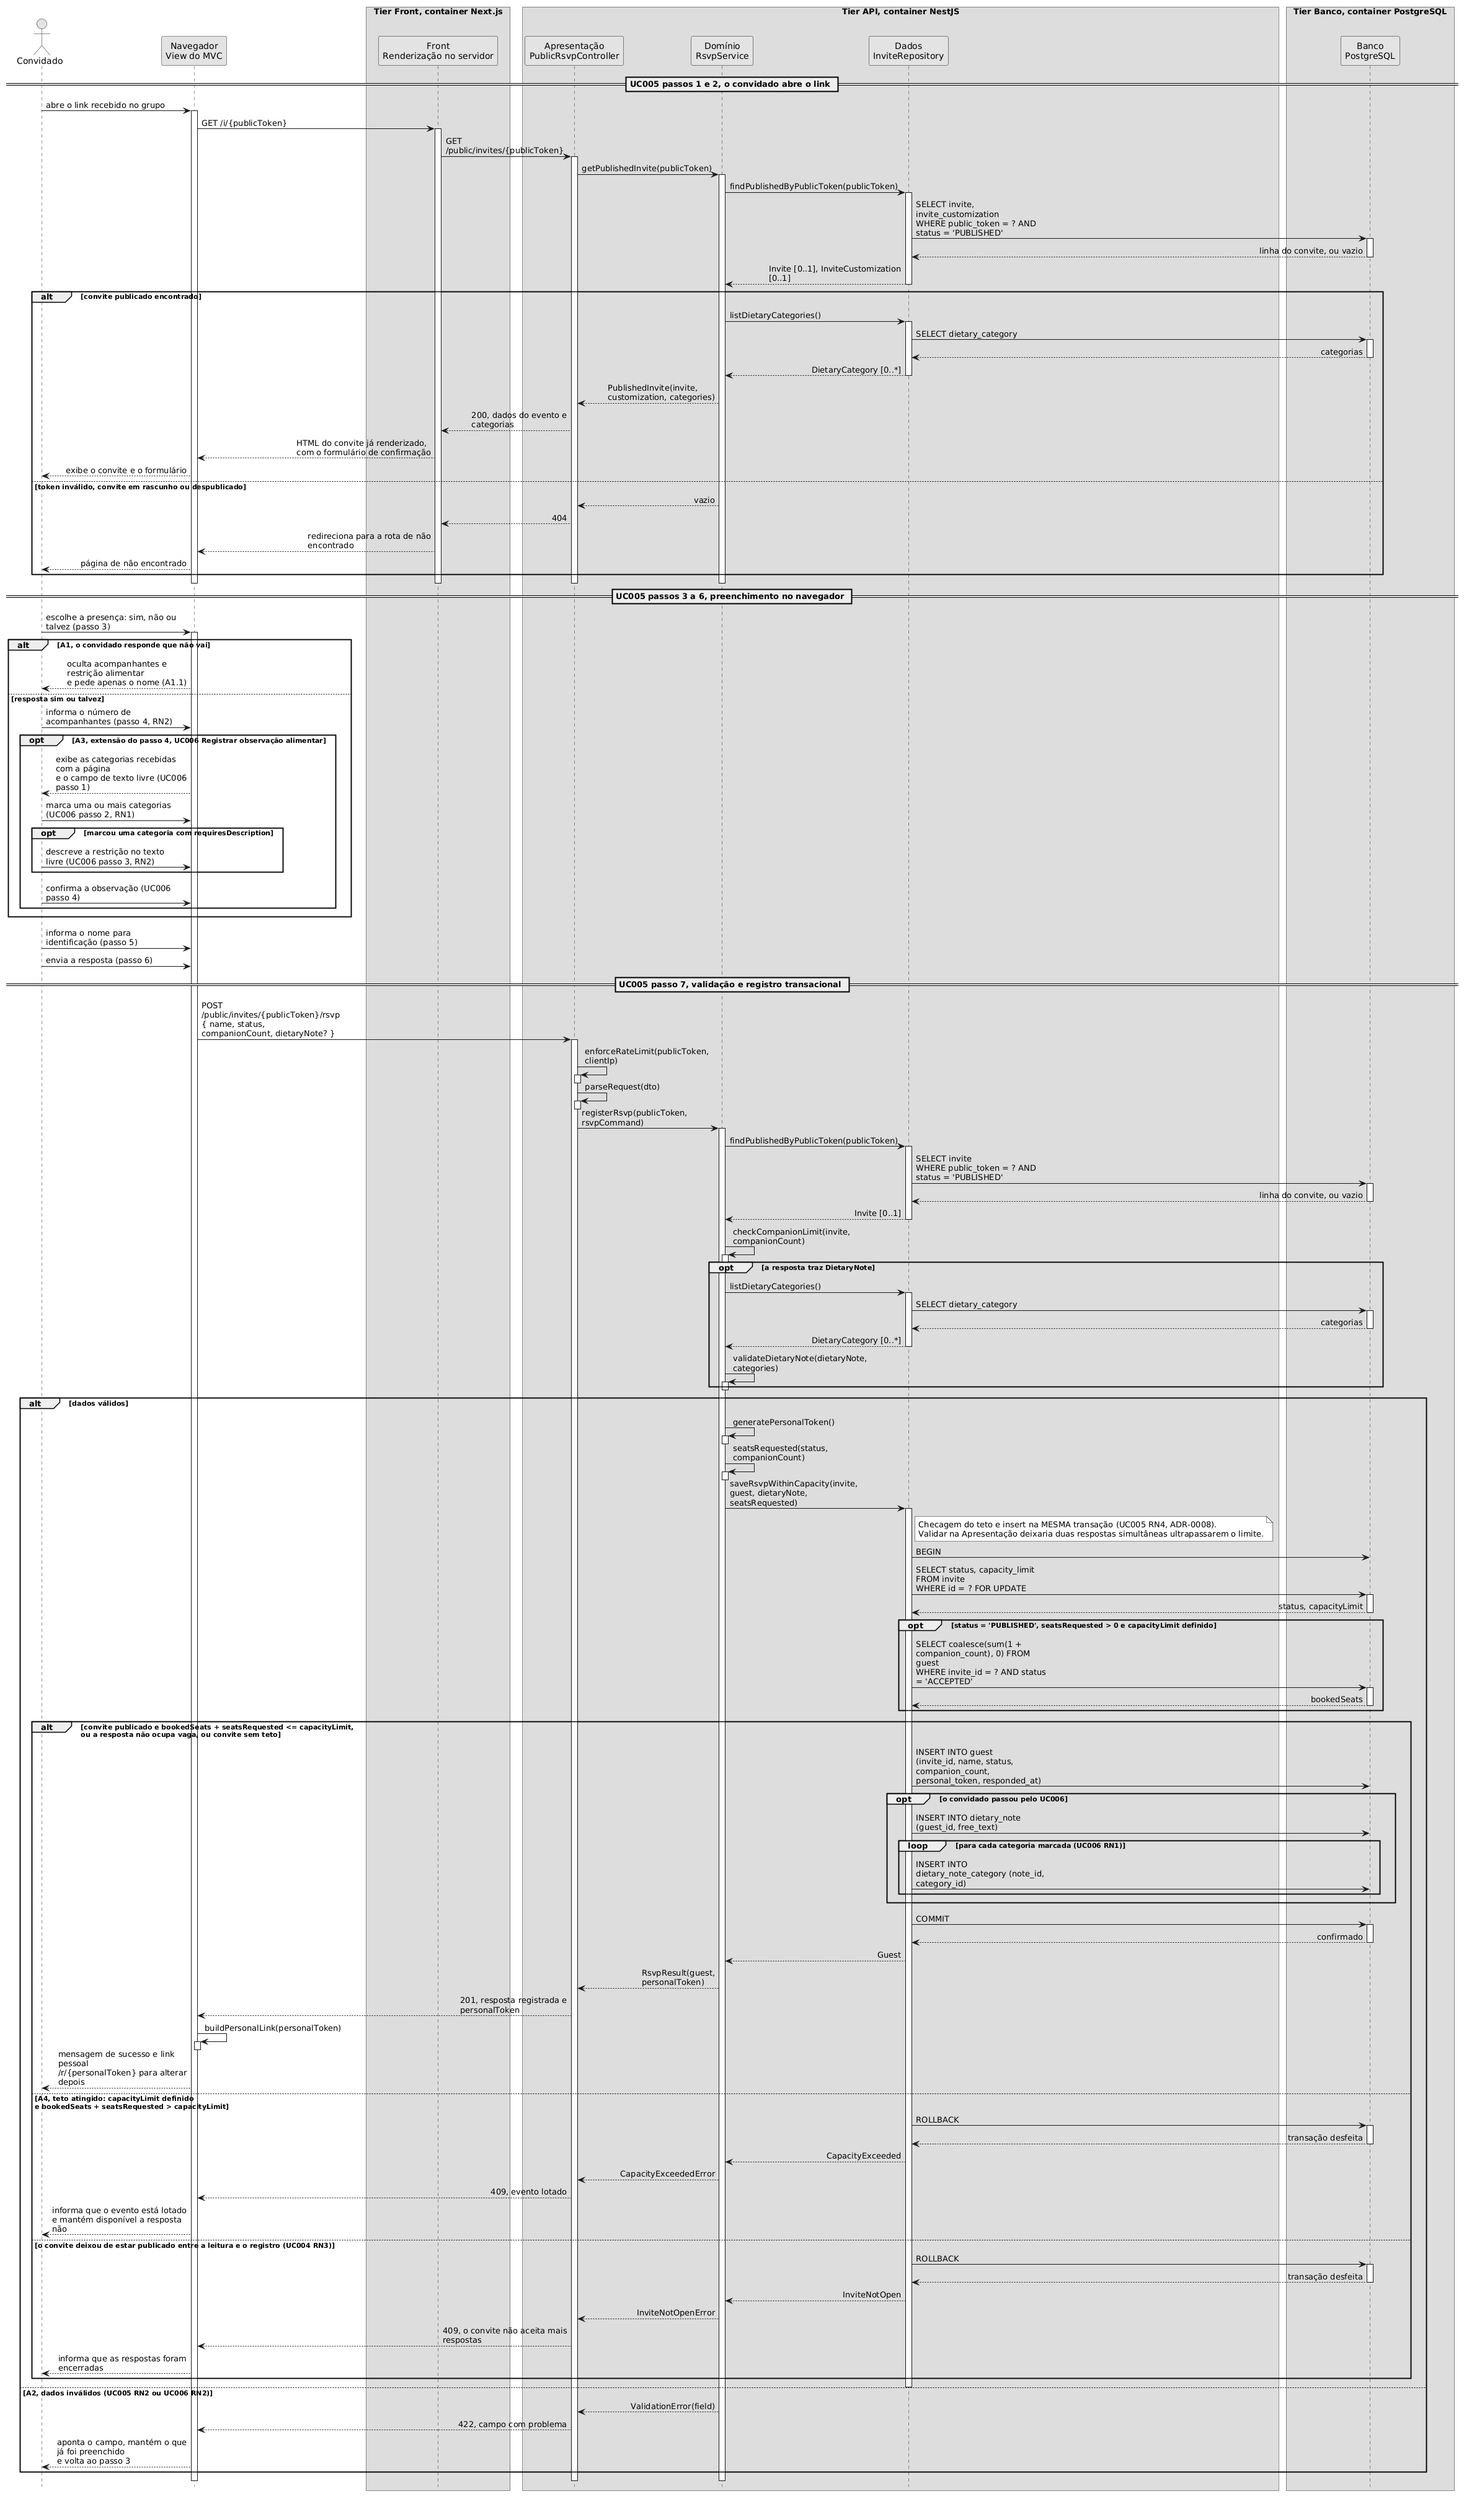
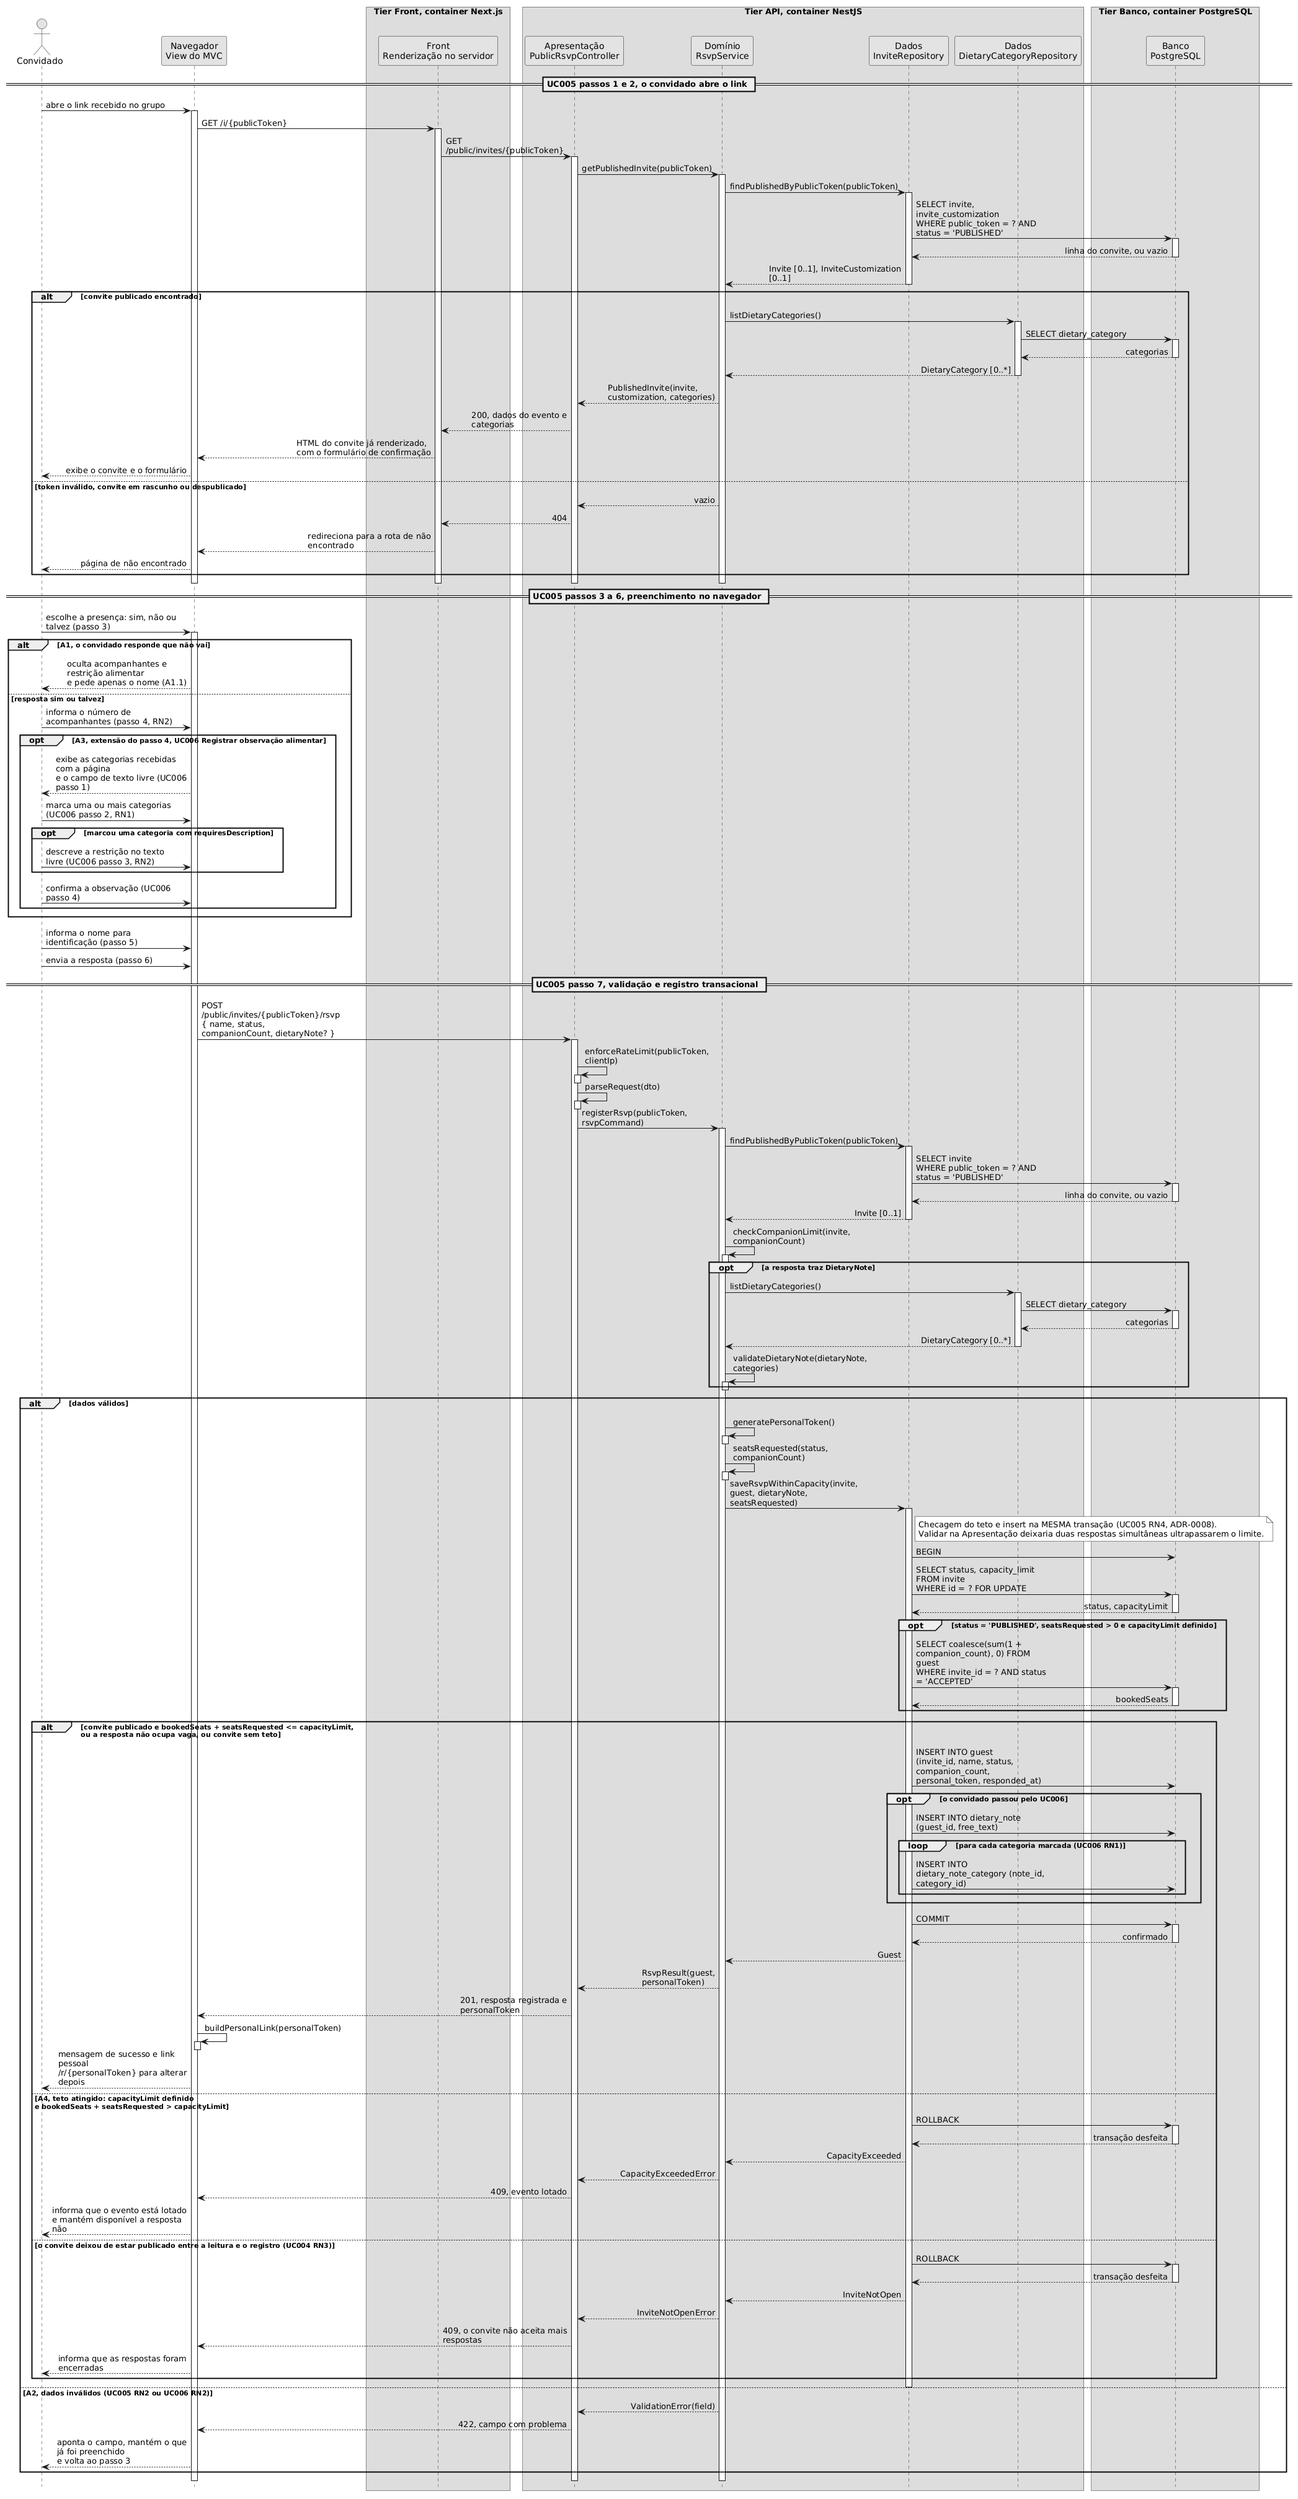
docs: separa DietaryCategoryRepository nos diagramas de sequência e alinha rótulo dos tiers

diff --git a/docs/Sprints/Sprint-2/Diagrama-de-Componentes.md b/docs/Sprints/Sprint-2/Diagrama-de-Componentes.md
@@ -346,7 +346,7 @@ O desenho preliminar saiu das tasks #64 a #67 e foi mexido em oito pontos antes 
 
 **4. Os componentes do tier Front ficaram `Page` e não `View`.** O primeiro rascunho usava o sufixo `View`, que é o vocabulário das linhas de vida dos diagramas de sequência. Não serve aqui. A tabela 7.3 do guia classifica a resolução de rota, a escolha da View e a consulta periódica como **Controller do MVC**, e as duas caixas do front carregam isso junto com a exibição. `Page` nomeia a superfície inteira sem prometer que ali existe só uma das peças do padrão, e o Vocabulário do guia avisa que misturar os nomes torna a leitura ilegível.
 
-**5. `DietaryCategoryRepository` entrou separado do `InviteRepository`.** É a aplicação da regra da seção 5.2 do guia. Isso obriga uma correção que ainda não foi feita: os fontes `diagrama-sequencia-uc005.puml` e `diagrama-sequencia-uc008.puml` ainda mostram `listDietaryCategories()` dentro de `InviteRepository`, em três chamadas ao todo. Enquanto não forem corrigidos, este diagrama e os de sequência se contradizem.
+**5. `DietaryCategoryRepository` entrou separado do `InviteRepository`.** É a aplicação da regra da seção 5.2 do guia. Isso obrigou uma correção nos fontes `diagrama-sequencia-uc005.puml` e `diagrama-sequencia-uc008.puml`, que mostravam `listDietaryCategories()` dentro de `InviteRepository` em três chamadas ao todo. Os três diagramas de sequência ganharam a linha de vida do novo repositório e foram gerados de novo.
 
 **6. Os três tiers ficaram como agrupamento e não viraram caixa de componente.** A primeira versão desenhava Front, API e Banco como componentes com porta publicada e variável de ambiente como interface requerida. Isso é o assunto do diagrama de implantação, onde nó, dispositivo e link de comunicação têm notação própria. Mantidas as duas leituras separadas, as duas entregas não colidem. Essa é também a leitura que o bloco C do roteiro do T1 apresenta, e a seção 5 registra por que as duas convivem.
 
@@ -354,7 +354,7 @@ O desenho preliminar saiu das tasks #64 a #67 e foi mexido em oito pontos antes 
 
 **8. As portas saíram da figura.** A primeira versão punha porta nas duas páginas do front, nas quatro rotas da API e no acesso ao banco. Sete componentes ganhavam corpo de caixa grande e os outros catorze ficavam compactos, o que faz o mesmo tipo de elemento aparecer com duas formas e sugere componente composto onde não há. O critério de porta, com número e mapeamento, é do item #60.
 
-**9. O fonte do UC004 usa um nome de erro fora do catálogo.** O `diagrama-sequencia-uc004.puml` escreve `InviteNotPublished ou NotInviteOwner` no ramo de despublicar, e `InviteNotPublished` não está entre os cinco tipos da seção 9.2 do guia. A tabela 9.1 mapeia esse caso para `InviteNotOpenError`. Esta página adota o catálogo do guia, e a correção do fonte está na seção 10.2.
+**9. O fonte do UC004 usa um nome de erro fora do catálogo.** O `diagrama-sequencia-uc004.puml` escreve `InviteNotPublished ou NotInviteOwner` no ramo de despublicar, e `InviteNotPublished` não está entre os cinco tipos da seção 9.2 do guia. A tabela 9.1 mapeia esse caso para `InviteNotOpenError`. Esta página adota o catálogo do guia, e o fonte foi corrigido junto com os outros dois.
 
 ---
 
@@ -445,7 +445,7 @@ A segunda pergunta de motivação da aula é sobre unidades substituíveis, e a 
 
 | Artefato | Relação |
 |---|---|
-| Diagrama de camadas, seção 2 do Guia da Arquitetura | Mesmas camadas e mesmos tiers. O que lá é uma caixa por camada, aqui são os componentes dentro dela. O rótulo dos pacotes de tier difere hoje e precisa ser alinhado, conforme a seção 10.2 |
+| Diagrama de camadas, seção 2 do Guia da Arquitetura | Mesmas camadas, mesmos tiers e o mesmo rótulo de pacote. O que lá é uma caixa por camada, aqui são os componentes dentro dela |
 | [Diagrama de Classes](Diagrama-de-Classes.md) | Nenhuma classe virou componente. As classes são os classificadores da coluna "o que encapsula" da seção 1 |
 | [Diagramas de Sequência](Diagramas-de-Sequência.md) | Os participantes de camada dos três `.puml`, que são `PublicRsvpController`, `InviteController`, `DietaryController`, `RsvpService`, `InviteService`, `DietaryService` e `InviteRepository`, são componentes desta figura com os mesmos nomes. `Navegador`, `Front` e `Banco` não são componentes, são lugares de execução, e estão tratados na seção 5 e no item #60 |
 | Diagrama de implantação, item #60 | Recebe a seção 4 pronta. Os componentes já estão associados a artefatos, e falta alocar artefato em nó, definir link e número de porta |
@@ -474,12 +474,10 @@ A segunda pergunta de motivação da aula é sobre unidades substituíveis, e a 
 5. **Onde o `RateLimitGuard` guarda estado.** O ADR-0008 exige janela de tempo. Tabela no mesmo banco faria a Apresentação falar com o banco, o que a seção 6.2 do guia proíbe. Contador em memória do processo não cria dependência nenhuma e é o que a figura comporta hoje, mas deixa de valer se a API ganhar réplica, que é a hipótese levantada no bloco C do roteiro do T1 e que vem do convite público sem estado. A decisão merece ADR próprio, e ele decide também se a figura ganha soquete novo.
 6. **Onde o `SessionGuard` guarda estado.** Cookie assinado validado na própria guarda não cria dependência. Tabela de sessão cria, e cai no mesmo problema do item anterior. A pendência 4 dos Diagramas de Sequência já registra que `authenticateSession` não tem ADR.
 7. **As operações de `HostOperations` e de `HostStore` não têm assinatura fechada**, porque o UC001 não tem diagrama de sequência.
-8. **Correções nos fontes de sequência.** `diagrama-sequencia-uc005.puml` e `diagrama-sequencia-uc008.puml` mostram `listDietaryCategories()` em `InviteRepository`, em três chamadas ao todo, e a operação agora é de `DietaryCategoryRepository`. `diagrama-sequencia-uc004.puml` usa `InviteNotPublished`, que não está no catálogo de cinco tipos da seção 9.2 do guia, e a tabela 9.1 manda usar `InviteNotOpenError`.
-9. **O Diagrama de Classes precisa perder as três consultas do painel.** A descrição de `Invite` diz que ela responde também pelas três consultas, e `listAttendance()`, `consolidateDietaryNotes()` e `exportDietaryNotes()` aparecem como operações da entidade. A seção 4.2 do guia adota a leitura oposta e prometeu a correção exata na seção 11, que não existe. Esta página aloca as três em `AttendanceService` e `DietaryService`, então são três artefatos com duas leituras e uma precisa ceder.
-10. **Nada garante que `templates/` e `contract/` continuem coerentes.** Enquanto não houver verificação no build, acrescentar um template exige mexer nos dois lugares na mão, e um limite de texto divergente entre eles só aparece como recusa estranha na tela do UC003.
-11. **O rótulo dos pacotes de tier diverge do diagrama de camadas.** Aqui é `Tier Front`, `Tier API` e `Tier Banco`. O `diagrama-de-camadas.puml` usa `Tier Front, container Next.js` e as duas variantes equivalentes. Para a rastreabilidade da seção 9 ser verdadeira, os dois fontes precisam usar o mesmo rótulo, e a stack fica na prosa e na tabela da seção 8 do guia.
-12. **O nome do serviço do banco no compose não está decidido.** O rótulo da figura é o nome do banco, e o roteiro do T1 usa `db` como nome de serviço. A decisão é do arquivo de compose e do item #60.
-13. **Número de porta não existe como decisão em artefato nenhum.** A porta 3000 aparece no material do T1 como exemplo, e o ADR-0003 fecha no host sem chegar em porta. O número é assunto do item #60 e do arquivo de compose.
+8. **O Diagrama de Classes precisa perder as três consultas do painel.** A descrição de `Invite` diz que ela responde também pelas três consultas, e `listAttendance()`, `consolidateDietaryNotes()` e `exportDietaryNotes()` aparecem como operações da entidade. A seção 4.2 do guia adota a leitura oposta e prometeu a correção exata na seção 11, que não existe. Esta página aloca as três em `AttendanceService` e `DietaryService`, então são três artefatos com duas leituras e uma precisa ceder.
+9. **Nada garante que `templates/` e `contract/` continuem coerentes.** Enquanto não houver verificação no build, acrescentar um template exige mexer nos dois lugares na mão, e um limite de texto divergente entre eles só aparece como recusa estranha na tela do UC003.
+10. **O nome do serviço do banco no compose não está decidido.** O rótulo da figura é o nome do banco, e o roteiro do T1 usa `db` como nome de serviço. A decisão é do arquivo de compose e do item #60.
+11. **Número de porta não existe como decisão em artefato nenhum.** A porta 3000 aparece no material do T1 como exemplo, e o ADR-0003 fecha no host sem chegar em porta. O número é assunto do item #60 e do arquivo de compose.
 
 ---
 

diff --git a/docs/Diretrizes-do-Projeto/Guia-da-Arquitetura.md b/docs/Diretrizes-do-Projeto/Guia-da-Arquitetura.md
@@ -362,7 +362,7 @@ Pelo critério, os motivos 1 e 2 ficam juntos. As três projeções do painel fi
 
 **Esta regra é decisão nova deste guia, não algo que outro artefato já tenha registrado.** O Diagrama de Classes registra que `Invite` é a raiz do modelo e que `DietaryCategory` é dado de referência, e não fala em repositório em ponto nenhum. A regra segue daquilo, mas não está escrita lá. Está na seção 11 junto com as outras decisões novas.
 
-Os diagramas de sequência do UC005 e do UC008 ainda mostram `listDietaryCategories()` em `InviteRepository`, em três chamadas ao todo, duas no UC005 e uma no UC008. O diagrama do UC004 não usa a operação e não muda. A correção está na seção 11.
+Os diagramas de sequência do UC005 e do UC008 mostravam `listDietaryCategories()` em `InviteRepository`, em três chamadas ao todo, duas no UC005 e uma no UC008. Os dois ganharam a linha de vida de `DietaryCategoryRepository` quando o Diagrama de Componentes separou os dois repositórios. O diagrama do UC004 não usa a operação e não mudou.
 
 ### 5.3 Os dois pacotes da Apresentação, e a regra que faltava
 
